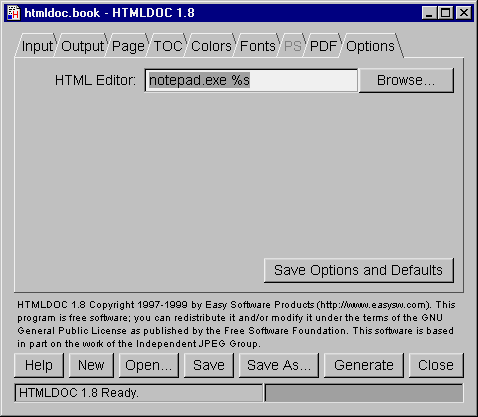
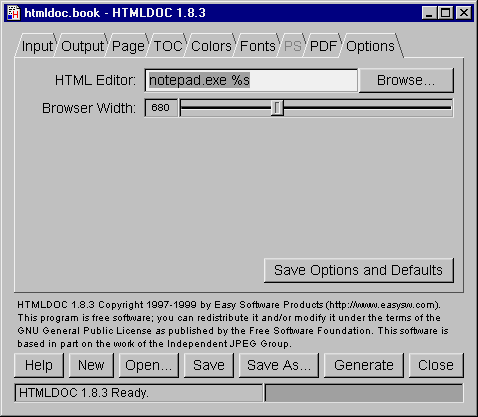
Updated with browser width option and new screenshot.

Changed region(s): [[0.0293, 0.717, 0.9372, 0.8417], [0.0879, 0.2182, 0.9665, 0.2806], [0.205, 0.9353, 0.2929, 0.9664]]

diff --git a/trunk/doc/7-guiref.html b/trunk/doc/7-guiref.html
@@ -53,7 +53,7 @@ a document. The book files saved to disk by the <VAR>Save</VAR> and
 PDF, or PostScript output files.  You generate those files by clicking
 on the <VAR>Generate</VAR> button.
 
-<H2>Generate</H2>
+<H3>Generate</H3>
 
 The <VAR>Generate</VAR> button generates the current document, creating
 the specified HTML, PDF, or PostScript file(s) as needed.  The progress
@@ -459,6 +459,13 @@ name to insert the name of the file to be edited. If you are using
 Netscape Composer to edit your HTML files you should put "-edit" before
 the <CODE>%s</CODE> to tell Netscape to edit the file and not display
 it.
+
+<H3>Browser Width</H3>
+
+The <VAR>Browser Width</VAR> slider specifies the width of the browser in
+pixels that is used to scale images and other pixel measurements to the
+printable page width. You can adjust this value to more closely match the
+formatting on the screen.
 
 <H3>Save Options and Defaults</H3>
 

diff --git a/trunk/doc/8-cmdref.html b/trunk/doc/8-cmdref.html
@@ -102,6 +102,17 @@ specify inches, centimeters, and millimeters, respectively.
 
 <P>This option is only available when generating PostScript or PDF files.
 
+<H3>--browserwidth pixels</H3>
+
+The <CODE>--browserwidth</CODE> option specifies the browser width in pixels.
+The browser width is used to scale images and pixel measurements when
+generating PostScript and PDF files. It does not affect the font size of text.
+
+<P>The default browser width is 680 pixels which corresponds roughly to a
+96 DPI display.
+
+<P>This option is only available when generating PostScript or PDF files.
+
 <H3>--charset charset</H3>
 
 The <CODE>--charset</CODE> option specifies the 8-bit character set encoding

diff --git a/trunk/doc/intro.html b/trunk/doc/intro.html
@@ -2,7 +2,7 @@
 <HEAD>
 	<META NAME="author" CONTENT="Easy Software Products">
 	<META NAME="copyright" CONTENT="Copyright 1997-1999, See the GNU General Public License for Details.">
-	<META NAME="docnumber" CONTENT="ESP-003-19991206">
+	<META NAME="docnumber" CONTENT="ESP-003-19991213">
 	<TITLE>HTMLDOC 1.8 Software Users Manual</TITLE>
 </HEAD>
 <BODY>
